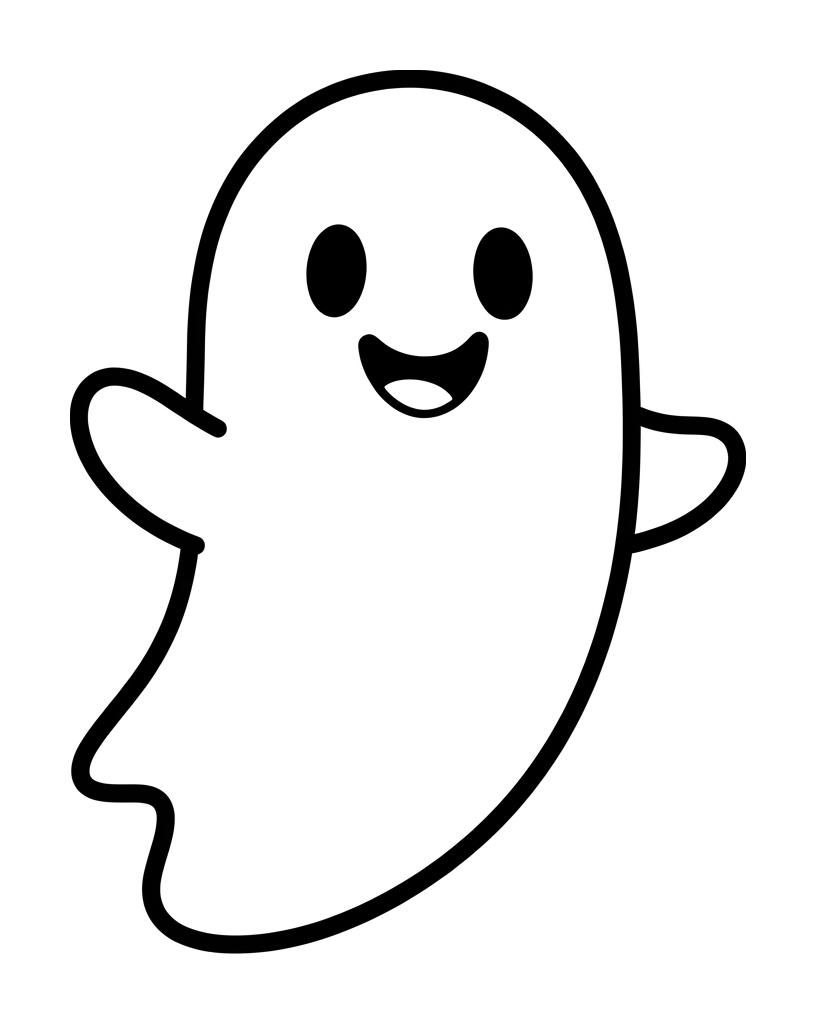
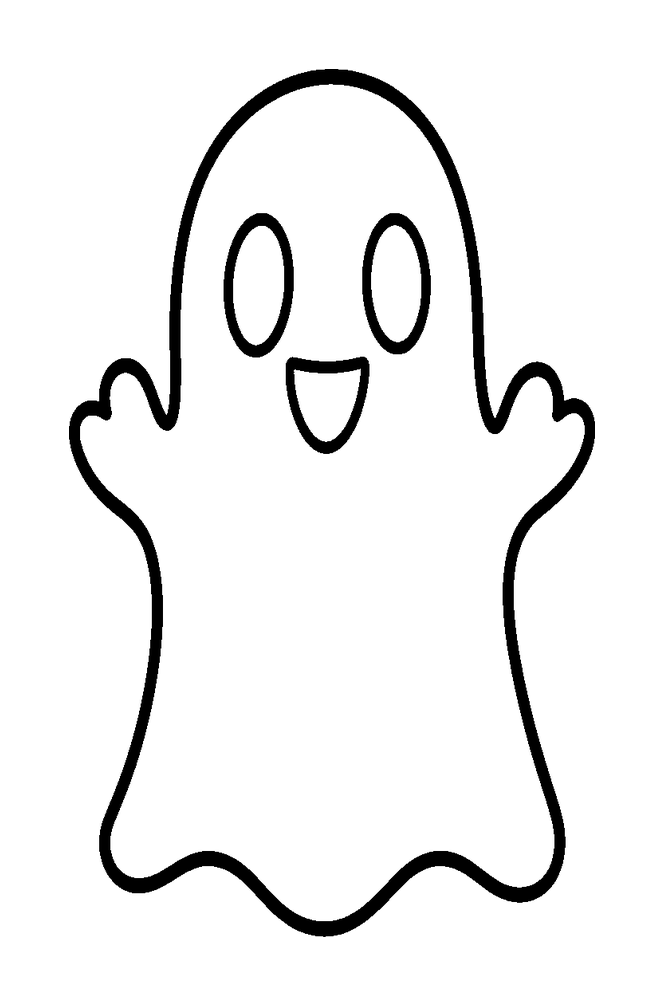
ハロウィンの台紙5種を確定し、テーマを選べるようにする
ChatGPT が描いた5枚を測って採用した。未加工の原本は
assets/templates/source/halloween/ に残してある。

測定でつまずいた点

届いた線画は かぼちゃ 1.17・ゆうれい 1.18 で、比がほぼ同じだった。
どちらも中身の詰まった塊なので重なりが 0.72 まで上がり、見分けの差が
+0.17 しか残らなかった（基準 0.20）。

原因は私の指示書で、比の絶対値（かぼちゃ 1.10〜1.15、ゆうれい 1.3）だけを
書いて「互いに離す」という関係の条件を書いていなかった。照合が見ているのは
台紙どうしの関係なので、1枚で読める条件では足りない（R-073）。

絵を描き直さず、ゆうれいを縦 1.4 倍に伸ばして +0.20 へ戻した
（tools/stretch-template.py。クラゲも同じ手で伸ばしてある）。
フランケンを横 1.4 倍にすると +0.24 まで上がったが、頭と胴が潰れて見えた。
差 0.04 のために絵を歪めるのは割に合わないので採らなかった。

実装
- 5種を templates.generated.ts に取り込み、テーマを ready: true にした
- 絵が1枚も出ていないとき、待機画面にいまのテーマを大きく出す。
  テーマ違いのままスキャンを続けると、あとで切り替えても絵が出てこないため。
  押すものは増やしていない

待機画面でひとつ実機で見つけて直した。条件に pieces.length > 0 を入れていて、
会期を片付けた翌朝の0枚の状態では出なかった。いちばん必要な場面で出ない条件
だったので、forTheme.length === 0 だけにした。

検証
- 台紙5種: 輪郭はすべて閉じている（3.9〜7.2）、総当たり最大 0.65、
  40/40 正解・2位との差 最小 +0.20、「ただの四角」は拾わない
- 実機に色を塗った15枚を通し、15/15 正しい種類・全部正しい向きを確認
- 単体テスト 499 件・typecheck・build 通過

残っている弱いところは docs/設計-ハロウィンの台紙.md に書いた。
0.55 を超える組が4つある（最大 0.65）。ゆうれい・フランケン・かぼちゃが
3つとも中身の詰まった塊だから。次に触るならフランケンの腕を長くするのが効く。

Claude-Session: https://claude.ai/code/session_01YQ81wU1rCZHBvuZPBKnxCZ

Changed region(s): [[0.0904, 0.0616, 0.9337, 0.9553], [0.3313, 0.2157, 0.6627, 0.4622], [0.0602, 0.0924, 0.3916, 0.493]]

diff --git a/src/core/templates.generated.ts b/src/core/templates.generated.ts
@@ -33,14 +33,14 @@ export const TEMPLATE_BITS = {
   stegosaurus: '000000000000000000000000000000000000000000000000000000000000000000000000000000000000000000000000000000000000000000000000000000000000000000000000000000000000000000000000000000000000000000000000000000000000000000000000000000000000000000000000000000000000000000000000000000000000000000000000000000000000000000000000000000000000000000000000000000000000000000000000000000000000000000000000000000000000000000000000110000000000000000000000000000000000000000000001110000000000000000000000000000000000000100000111111000000000000000000000000000000000001111000111111000000000000000000000000000000000001111101111111001111000000000000000000000000000001111101111111011111000000000000000000000000000011111111111111111111000000000000000000000000000011111111111111111111000000000000000000000000111111111111111111111111000000000000000000000000111111111111111111111111111100000000000000000000111111111111111111111111111000000000000000000000111111111111111111111111111000000000000000000000011111111111111111111111111000000000000000000011111111111111111111111111110110000000000000000011111111111111111111111111111110000000000000000011111111111111111111111111111110000000000000000001111111111111111111111111111100000000000000111110111111111111111111111111111111000000000001111111111111111111111111111111111111000000000001111111111111111111111111111111111111000010100111111111111111111111111111111111111110001010100111111111111111111111111111111111111111011111101111111111111111111111111111111111111111111101110011111111111111111111111111111111111111111111110001100000111111111111111111111111111111111111111000000000111111111111111111111001111111111111000000000000111111111111111011111000000011110000000000000001111101111001111001111000000000000000000000000001111101111001111001111100000000000000000000000011111011111001111001111100000000000000000000000011111011111001111011111100000000000000000000000000000011110000000001111000000000000000000000000000000000000000000000000000000000000000000000000000000000000000000000000000000000000000000000000000000000000000000000000000000000000000000000000000000000000000000000000000000000000000000000000000000000000000000000000000000000000000000000000000000000000000000000000000000000000000000000000000000000000000000000000000000000000000000000000000000000000000000000000000000000000000000',
   // 15_triceratops.png（長辺:短辺 = 1.42 : 1）
   triceratops: '000000000000000000000000000000000000000000000000000000000000000000000000000000000000000000000000000000000000000000000000000000000000000000000000000000000000000000000000000000000000000000000000000000000000000000000000000000000000000000000000000000000000000000000000000000000000000000000000000000000000000000000000000000000000000000000000000000000000000001100000000000000000000000000000000000000000000111111100000000000000000000000000000000000000011111111100000000000000000000000000000000000000011111111110000000000000000000000000000000011000011111111111000000000000000000000000000000011100011111111111000000000000000000000000011000011110011111111111000000000000000000000000001110001110111111111111100000000000000000000000001111001111111111111111111111111100000000000000000111110111111111111111111111111111000000000000000011111111111111111111111111111111110000000000000011111111111111111111111111111111111000000000000001111111111111111111111111111111111100000000000000111111111111111111111111111111111110000000110001111111111111111111111111111111111111000000111001111111111111111111111111111111111111000000111111111111111111111111111111111111111111100000011111111111111111111111111111111111111111100000011111111111111111111111111111111111111111110000011111111111111111111111111111111111111111110000011111111111111111111111111111111111111111111000011111111111111111111111111111111111111111111100011111111111111111111111111111111111111111111110001100111111111111111111111111111111111111111111000001111111011111111111111111111111111111111111000001111000001111111111111111111111111111111110000000000000001111111111111111111111111111110000000000000000011111100111111111111111111110000000000000000000011111100111111001111101111111000000000000000000111111001111111001111100111111000000000000000000111111001111111011111100111111000000000000000001111111011111111011111101111111000000000000000000111110011111110000000001111111000000000000000000000000001111100000000000000000000000000000000000000000000000000000000000000000000000000000000000000000000000000000000000000000000000000000000000000000000000000000000000000000000000000000000000000000000000000000000000000000000000000000000000000000000000000000000000000000000000000000000000000000000000000000000000000000000000000000000000000000000000000000000000000000000000',
-  // 01_kabocha.png（長辺:短辺 = 1.17 : 1）
-  kabocha: '000000000000000000000000000000000000000000000000000000000000000000000000000000000000000000000000000000000000000000000000000000000000000000000000000000000000000000000000000010000000000000000000000000000000000000000000000111000000000000000000000000000000000000000000001111000000000000000000000000000000000000000000001111000000000000000000000000000000000000000000001111000000000000000000000000000000000000000000011110000000000000000000000000000000000000000000011110000000000000000000000000000000000000000000111110000000000000000000000000000000000000000000111100000000000000000000000000000000000000000000111100000000000000000000000000000000000000000001111000000000000000000000000000000000000000011111111110000000000000000000000000000000001111111111111111111100000000000000000000000001111111111111111111111111100000000000000000000111111111111111111111111111111000000000000000011111111111111111111111111111111110000000000000111111111111111111111111111111111111000000000001111111111111111111111111111111111111100000000011111111111111111111111111111111111111110000000111111111111111111111111111111111111111111000001111111111111111111111111111111111111111111100011111111111111111111111111111111111111111111110011111111111111111111111111111111111111111111110111111111111111111111111111111111111111111111111111111111111111111111111111111111111111111111111111111111111111111111111111111111111111111111111111111111111111111111111111111111111111111111111111111111111111111111111111111111111111111111111111111111111111111111111111111111111111111111111011111111111111111111111111111111111111111111110011111111111111111111111111111111111111111111110011111111111111111111111111111111111111111111110001111111111111111111111111111111111111111111100000111111111111111111111111111111111111111111000000011111111111111111111111111111111111111110000000001111111111111111111111111111111111111100000000000111111111111111111111111111111111111000000000000001111111111111111111111111111111100000000000000000011111111111111111111111111110000000000000000000000111111111111111111111111000000000000000000000000000111111111111111111000000000000000000000000000000000000001100000000000000000000000000000000000000000000000000000000000000000000000000000000000000000000000000000000000000000000000000000000000000000000000000000000000000000000000',
-  // 02_koumori.png（長辺:短辺 = 2.44 : 1）
-  koumori: '000000000000000000000000000000000000000000000000000000000000000000000000000000000000000000000000000000000000000000000000000000000000000000000000000000000000000000000000000000000000000000000000000000000000000000000000000000000000000000000000000000000000000000000000000000000000000000000000000000000000000000000000000000000000000000000000000000000000000000000000000000000000000000000000000000000000000000000000000000000000000000000000000000000000000000000000000000000000000000000000000000000000000000000000000000000000000000000000000000000000000000000000000000000000000000000000000000000000000000000000000000000000000000000000000000000000000000000000000000000000000000000000000000000000000000011000000110000000000000000000000000000000000000011000000110000000000000000000000000000000000000011100001110000000000000000000000000001111110000111111111111000011111100000000000000111111110000111111111111000011111111000000000011111111111000111111111111000111111111110000000111111111111000011111111110000111111111111000001111111111111100011111111110001111111111111100011111111111111110011111111110011111111111111110111111111111111111011111111110111111111111111111111111111111111111111111111111111111111111111111000011111111111111111111111111111111111111110000000001111111111111111111111111111111111111100000000000111111111111111111111111111111111111000000000000111011111111111111111111111111110111000000000000000001111111111111111111111111000000000000000000000000111000011111111110000111000000000000000000000000010000001111111100000010000000000000000000000000000000000111111000000000000000000000000000000000000000000011110000000000000000000000000000000000000000000000000000000000000000000000000000000000000000000000000000000000000000000000000000000000000000000000000000000000000000000000000000000000000000000000000000000000000000000000000000000000000000000000000000000000000000000000000000000000000000000000000000000000000000000000000000000000000000000000000000000000000000000000000000000000000000000000000000000000000000000000000000000000000000000000000000000000000000000000000000000000000000000000000000000000000000000000000000000000000000000000000000000000000000000000000000000000000000000000000000000000000000000000000000000000000000000000000000000000000000000000000000000000000000000000000000000000000000000000',
-  // 03_yurei.png（長辺:短辺 = 1.31 : 1）
-  yurei: '000000000000000000000111111000000000000000000000000000000000000000111111111111000000000000000000000000000000000001111111111111100000000000000000000000000000000011111111111111110000000000000000000000000000000111111111111111111000000000000000000000000000001111111111111111111100000000000000000000000000001111111111111111111100000000000000000000000000011111111111111111111110000000000000000000000000011111111111111111111110000000000000000000000000011111111111111111111111000000000000000000000000111111111111111111111111000000000000000000000000111111111111111111111111000000000000000000000000111111111111111111111111000000000000000000000000111111111111111111111111000000000000000000000000111111111111111111111111000000000000000000000000111111111111111111111111100000000000000000011100111111111111111111111111100000000000000000111110111111111111111111111111100000000000000000111111111111111111111111111111100000000000000000111111111111111111111111111111111111000000000000111111111111111111111111111111111111000000000000111111111111111111111111111111111111000000000000011111111111111111111111111111111111000000000000001111111111111111111111111111111110000000000000000111111111111111111111111111111100000000000000000001111111111111111111111111111000000000000000000000111111111111111111111111000000000000000000000001111111111111111111111111000000000000000000000001111111111111111111111111000000000000000000000001111111111111111111111110000000000000000000000011111111111111111111111110000000000000000000000011111111111111111111111110000000000000000000000111111111111111111111111110000000000000000000000111111111111111111111111100000000000000000000001111111111111111111111111100000000000000000000011111111111111111111111111000000000000000000000111111111111111111111111111000000000000000000000111111111111111111111111110000000000000000000000111111111111111111111111100000000000000000000000011111111111111111111111100000000000000000000000000011111111111111111111000000000000000000000000000011111111111111111110000000000000000000000000000011111111111111111100000000000000000000000000000011111111111111110000000000000000000000000000000011111111111111100000000000000000000000000000000011111111111110000000000000000000000000000000000011111111111000000000000000000000000000000000000000111111000000000000000000000000000000',
-  // 04_majo.png（長辺:短辺 = 1.13 : 1）
-  majo: '000000000000000000000000000000000000000000000000000000000000000000000000000000000000000000000000000000000000000000000000000000000000000000000000000000000000011111111110000000000000000000000000000000000000000111111111000000000000000000000000000000000000000001111111100000000000000000000000000000000000000000011111110000000000000000000000000000000000000000011111111000000000000000000000000000000000000000011111111100000000000000000000000000000000000000011111111111111110000000110000000000000000000000011111111111111100000001111000000000000000000000011111111111100000000011111100000000000000000001111111111110000000000111111110000000000000000111111111111111000000000111111110000000000000011111111111111111000000001111111111000000000000011100111111111111000000011111111111000000000000000001111111111110000000011111111110000000000000011111111111111110000000011111111000000000000000001111111111111100000001111111110000000000000000001111111111100000000011111111000000000000000000000011111111110000000011110000000000000000000000001111111111111000000111110000000000000000000000111111111111111111111100100000000000000000000011111111111111111111111000000000000000000000111111111111111111111111111000000000000000001111111111111111111111111111110000000000000000011111111111111111111111111110000000000000000000000011111111111111111111111110000000000000000000000001111111111111111111111111000000100000000000000001111111111101111111111111101000110000000000000001111111111000111111111111111101110000000000000001111111110000011111111001111111100000000000000000000111100000111011100000111111100000000000000000000011000001110010000000001110000000000000000000000010000111000000000000000010000000000000000000000000001110000000000000000000000000000000000000000000011100000000000000000000000000000000000000000001110000000000000000000000000000000000000000000011100000000000000000000000000000000000000000000111000000000000000000000000000000000000000000011110000000000000000000000000000000000000000000111000000000000000000000000000000000000000000001110000000000000000000000000000000000000000000111100000000000000000000000000000000000000000000110000000000000000000000000000000000000000000000000000000000000000000000000000000000000000000000000000000000000000000000000000000000000000000000000000000000000000000000000000000000000000000',
+  // 01_kabocha.png（長辺:短辺 = 1.18 : 1）
+  kabocha: '000000000000000000000000000000000000000000000000000000000000000000000000000000000000000000000000000000000000000000000000000000000000000000000000000000000000000000000000000000000000000000000000000000000000000000000000000011111110000000000000000000000000000000000000001111111111000000000000000000000000000000000000011111111111000000000000000000000000000000000000111111111111000000000000000000000000000000000001111111111110000000000000000000000000000000000011111111000000000000000000000000000000000000000011111110000000000000000000000000000000000000000111111110000000000000000000000000000000000000001111111110000000000000000000000000000000000000011111111110000000000000000000000000000000011111111111111111111111000000000000000000000111111111111111111111111111111100000000000000111111111111111111111111111111111111000000000001111111111111111111111111111111111111100000000011111111111111111111111111111111111111110000000111111111111111111111111111111111111111111000000111111111111111111111111111111111111111111000001111111111111111111111111111111111111111111100011111111111111111111111111111111111111111111110011111111111111111111111111111111111111111111110011111111111111111111111111111111111111111111110111111111111111111111111111111111111111111111111111111111111111111111111111111111111111111111111111111111111111111111111111111111111111111111111111111111111111111111111111111111111111111111111111111111111111111111111111111111111111111111111111111111111111111111111111111111111111111111111111111111111111111111111111111111111111111111111111111111111111111111111111111111111111111111111111111111111111111111111111111111111111111111111011111111111111111111111111111111111111111111110011111111111111111111111111111111111111111111110011111111111111111111111111111111111111111111110001111111111111111111111111111111111111111111100001111111111111111111111111111111111111111111100000111111111111111111111111111111111111111111000000011111111111111111111111111111111111111110000000001111111111111111111111111111111111111100000000000001111111111111111111111111111111100000000000000000000111111011111111110111110000000000000000000000000000000000000000000000000000000000000000000000000000000000000000000000000000000000000000000000000000000000000000000000000000000000000000000000000000000000000000000000000000000000000',
+  // 02_koumori.png（長辺:短辺 = 2.36 : 1）
+  koumori: '000000000000000000000000000000000000000000000000000000000000000000000000000000000000000000000000000000000000000000000000000000000000000000000000000000000000000000000000000000000000000000000000000000000000000000000000000000000000000000000000000000000000000000000000000000000000000000000000000000000000000000000000000000000000000000000000000000000000000000000000000000000000000000000000000000000000000000000000000000000000000000000000000000000000000000000000000000000000000000000000000000000000000000000000000000000000000000000000000000000000000000000000000000000000000000000000000000000000000000000000000000000000000000000000000000000000000000000000000000000000000000000000000000000000000011000000000000110000000000000000000000000000000011100000000001110000000000000000000000000000000011110000000011110000000000000000000000000000000011111111111111110000000000000000000000000000000011111111111111110000000000000000000000001111100011111111111111110001111100000000000001111111100011111111111111110001111111100000000011111111110001111111111111100011111111110000000111111111111001111111111111100111111111111000001111111111111111111111111111111111111111111100011111111111111111111111111111111111111111111110111111111111111111111111111111111111111111111111100011111111111111111111111111111111111111110001000001111111111111111111111111111111111111100000000000110001111111111111111111111111100011000000000000100000110000111111111111000011000001000000000000000000100000011111111110000001000000000000000000000000000000001111111100000000000000000000000000000000000000001111111100000000000000000000000000000000000000001110011100000000000000000000000000000000000000000000000000000000000000000000000000000000000000000000000000000000000000000000000000000000000000000000000000000000000000000000000000000000000000000000000000000000000000000000000000000000000000000000000000000000000000000000000000000000000000000000000000000000000000000000000000000000000000000000000000000000000000000000000000000000000000000000000000000000000000000000000000000000000000000000000000000000000000000000000000000000000000000000000000000000000000000000000000000000000000000000000000000000000000000000000000000000000000000000000000000000000000000000000000000000000000000000000000000000000000000000000000000000000000000000000000000000000000000000',
+  // 03_yurei.png（長辺:短辺 = 1.65 : 1）
+  yurei: '000000000000000000000111110000000000000000000000000000000000000000001111111100000000000000000000000000000000000000011111111110000000000000000000000000000000000000111111111111000000000000000000000000000000000001111111111111000000000000000000000000000000000001111111111111100000000000000000000000000000000011111111111111100000000000000000000000000000000011111111111111110000000000000000000000000000000011111111111111110000000000000000000000000000000111111111111111110000000000000000000000000000000111111111111111110000000000000000000000000000000111111111111111110000000000000000000000000000000111111111111111110000000000000000000000000000000111111111111111110000000000000000000000000000000111111111111111110000000000000000000000000000000111111111111111110000000000000000000000000000110111111111111111110001000000000000000000000001110111111111111111111011100000000000000000000011111111111111111111111111110000000000000000000111111111111111111111111111111000000000000000000111111111111111111111111111111000000000000000000011111111111111111111111111110000000000000000000011111111111111111111111111110000000000000000000001111111111111111111111111100000000000000000000000111111111111111111111111000000000000000000000000011111111111111111111110000000000000000000000000001111111111111111111100000000000000000000000000001111111111111111111100000000000000000000000000001111111111111111111100000000000000000000000000001111111111111111111100000000000000000000000000001111111111111111111100000000000000000000000000001111111111111111111100000000000000000000000000001111111111111111111100000000000000000000000000001111111111111111111110000000000000000000000000001111111111111111111110000000000000000000000000011111111111111111111110000000000000000000000000011111111111111111111110000000000000000000000000011111111111111111111111000000000000000000000000111111111111111111111111000000000000000000000000111111111111111111111111000000000000000000000000111111111111111111111111100000000000000000000001111111111111111111111111100000000000000000000001111111111111111111111111100000000000000000000001111111111111111111111111100000000000000000000000111100111111111110011111100000000000000000000000010000001111111100000111000000000000000000000000000000000111111000000000000000000000000000000000000000000011100000000000000000000000',
+  // 04_majo.png（長辺:短辺 = 1.1 : 1）
+  majo: '000000000000000000000000000000000000000000000000000000000000000000000000000000000000000000000000000000000000000000011100000000000000000000000000000000000000000000111111100000000000000000000000000000000000000011111111111000000000000000000000000000000000000111111111111100000000000000000000000000000000000111111111111110000001100000000000000000000000111111001111111111111111111000000000000000000001111100001111111111111111111000000000000000000000000000000111111111111111111000000000000000000000000000000111111111111111110000000000000000000000000000000111111111111111100000000000000000000000000000000111111111111111000000000000000000000000000000001111111111111110000000000000000000000000011110011111111111111100000000000000000000000000011111111111111111111100000000000000000000000000111111111111111111111100000000000000000000000101111111111111111111111100000000000000000000001111111111111111111111111000000000000000000000000111111111111111111111111000000000000000000000000111111111111111111111100000000000000000000000000111111111111111111111100000000000000111000000000000111111111111111111100000000000011111000000000000001111111111111111110000000001111100000000000111111011111111111111111110000011110000000000011111111111111111111111111111111111000000000000111111111111111111111111111111111100000000000000000111111111111111111111111111111000000000000000000011111111111111111111111111100000000000000000000001100111111111111111111111000000000000000000000000000011111111111111111000000000000000000000000000000111111111111111111000000000000000000000000000000111111111111111111000000000000000000000000000000001111111111111110000000000000000000011111100011011111100011111110000000000000000011111111111111111110001111111100000000000000000001111111111111110000001111110000000000000000000111111111111111100000111111110000000000000000000111111111111111000000111111100000000000000000000011111111111100000000011111100000000000000000000111111111111100000000001111111000000000000000000111111111111000000000001111111000000000000000000011111111111000000000000000110000000000000000000001111111110000000000000000000000000000000000000000111111100000000000000000000000000000000000000000101100000000000000000000000000000000000000000000000000000000000000000000000000000000000000000000000000000000000000000000000000000000000000000',
   // 05_franken.png（長辺:短辺 = 1.03 : 1）
-  franken: '000000000000000000000000000000000000000000000000000000000000000011111111111111110000000000000000000000000000000011111111111111110000000000000000000000000000000011111111111111110000000000000000000000000000000011111111111111110000000000000000000000000000000011111111111111110000000000000000000000000000000011111111111111110000000000000000000000000000000011111111111111110000000000000000000000000000000011111111111111110000000000000000000000000000000111111111111111111000000000000000000000000000000111111111111111111000000000000000000000000000000111111111111111111000000000000000000000000000000001111111111111100000000000000000000000000000000111111111111111111000000000000000000000000000000111111111111111111000000000000000000000000000000101111111111111101000000000000000001110000000011111111111111111111110000000011100111111111111111111111111111111111111111111111111111111111111111111111111111111111111111111111111111111111111111111111111111111111111111111111111111111111111111111111111111111111111111111111111000000000111111111111111111111111111111000000000000000000000000001111111111111100000000000000000000000000000000001111111111111100000000000000000000000000000000001111111111111100000000000000000000000000000000001111111111111100000000000000000000000000000000001111111111111100000000000000000000000000000000011111111111111110000000000000000000000000000000011111111111111110000000000000000000000000000000011111111111111110000000000000000000000000000000011111111111111110000000000000000000000000000000011111111111111110000000000000000000000000000000001111111111111100000000000000000000000000000000001111111111111100000000000000000000000000000000011111110011111100000000000000000000000000000000011111110011111110000000000000000000000000000000011111100001111110000000000000000000000000000000011111100001111110000000000000000000000000000000011111100001111110000000000000000000000000000000011111100001111110000000000000000000000000000000011111100001111110000000000000000000000000000000111111100001111111000000000000000000000000000000111111100001111111000000000000000000000000000011111111000001111111110000000000000000000000000111111111000000111111111000000000000000000000000111111111000000111111111000000000000000000000000111111111000000111111111000000000000000000000000000000000000000000000000000000000000',
+  franken: '000000000000000000000000000000000000000000000000000000000000000111111111111111111000000000000000000000000000000111111111111111111100000000000000000000000000000111111111111111111000000000000000000000000000000111111111111111111000000000000000000000000000000111111111111111111000000000000000000000000000000111111111111111111000000000000000000000000000000111111111111111111000000000000000000000000000000111111111111111110000000000000000000000000000000011111111111111110000000000000000000000000000001111111111111111111100000000000000000000000000001111111111111111111110000000000000000000000000011111111111111111111110000000000000000000000000001111111111111111111100000000000000000000000000001111111111111111111100000000000000000000000000000001111111111111100000000000000000000000000000000111111111111111111000000000000000000000000000000111111111111111111000000000000000000100000000000110001111111100011000000000001000000110011111111111111111111111111111111110011000111111111111111111111111111111111111111111111111111111111111111111111111111111111111111111111111111111111111111111111111111111111111111111111111111111111111111111111111111111111111111111111111001110011111111111111111111111111111111110011100000000000000000001111111111111100000000000000000000000000000000011111111111111110000000000000000000000000000000011111111111111110000000000000000000000000000000011111111111111110000000000000000000000000000000111111111111111111000000000000000000000000000000111111111111111111000000000000000000000000000000111111111111111111100000000000000000000000000000111111111111111111000000000000000000000000000000011111111111111110000000000000000000000000000000111111111111111111000000000000000000000000000000111111110011111111000000000000000000000000000001111111110001111111100000000000000000000000000001111111100001111111100000000000000000000000000011111111000000111111110000000000000000000000000011111111000000111111111000000000000000000000000011111110000000011111110000000000000000000000000111111110000000011111111000000000000000000001111111111100000000001111111111100000000000000001111111111100000000000111111111100000000000000001111111111100000000001111111111100000000000000011111111111100000000001111111111110000000000000011111111111100000000001111111111110000000000000000000000000000000000000000000000000000000',
 } as const

diff --git a/src/renderer/App.tsx b/src/renderer/App.tsx
@@ -273,16 +273,43 @@ export function App(): React.JSX.Element {
         dinosaurStyle={settings?.dinosaurStyle ?? 'plain'}
       />
 
-      {settings && settings.watchFolder !== null && forTheme.length === 0 && pieces.length > 0 && (
+      {/*
+        * **絵が1枚も出ていないときは、いまのテーマを大きく出す。**
+        *
+        * テーマが合っていないと、絵は**無言で**別テーマとして記録される。
+        * 気づかずにスキャンを続けると、あとで切り替えても絵が出てこない。
+        *
+        * **`pieces.length > 0` を条件に入れてはいけない。**
+        * 会期を片付けた翌朝は 0 枚から始まるので、
+        * **いちばん必要な場面（その日の1枚目を通す前）で出なくなる**。
+        * 押すものは増やさない。気づければそれでいい。
+        */}
+      {settings && settings.watchFolder !== null && forTheme.length === 0 && (
         <div className="setup">
-          <h1>このテーマの絵はまだありません</h1>
-          <p>
-            ほかのテーマに {pieces.length} 枚あります。絵はテーマごとに分かれているので、
-            <br />
-            このテーマの絵は、このテーマを選んだ状態で写真を入れると増えます。
-            <br />
-            テーマは <strong>S</strong> キーの設定画面で切り替えられます。
+          <p className="theme-now">
+            いまは <strong>{THEMES.find((theme) => theme.id === settings.theme)?.name}</strong> です
           </p>
+          {pieces.length > 0 ? (
+            <>
+              <h1>このテーマの絵はまだありません</h1>
+              <p>
+                ほかのテーマに {pieces.length} 枚あります。絵はテーマごとに分かれているので、
+                <br />
+                このテーマの絵は、このテーマを選んだ状態で写真を入れると増えます。
+                <br />
+                テーマは <strong>S</strong> キーの設定画面で切り替えられます。
+              </p>
+            </>
+          ) : (
+            <>
+              <h1>写真を入れると、ここに出ます</h1>
+              <p>
+                取り込みフォルダに写真が入るのを待っています。アプリの操作は要りません。
+                <br />
+                テーマが違うときは <strong>S</strong> キーの設定画面で切り替えてください。
+              </p>
+            </>
+          )}
         </div>
       )}
 

diff --git a/src/core/theme.ts b/src/core/theme.ts
@@ -28,12 +28,10 @@ export const THEMES: readonly ThemeMeta[] = [
   { id: 'aquarium', name: '水族館', motion: 'float', ready: true },
   { id: 'dinosaur', name: '恐竜', motion: 'walk', ready: true },
   /*
-   * **まだ台紙が無いので `ready: false`。** 設定画面には出さない。
-   * 世界（背景）だけ先に作ってある。台紙5種が確定したら true にする。
-   * ここを先に true にすると、会場で選べてしまい、
-   * 種類の付かない絵ばかりが漂う画面になる。
+   * 台紙5種が確定し、実機で 15/15 正しく判定・正しい向きで出ることを
+   * 確認したので選べるようにした（2026-10-09）。
    */
-  { id: 'halloween', name: 'ハロウィン', motion: 'float', ready: false },
+  { id: 'halloween', name: 'ハロウィン', motion: 'float', ready: true },
   { id: 'space', name: '宇宙', motion: 'float', ready: false },
   { id: 'meadow', name: '森・草原', motion: 'flutter', ready: false },
   { id: 'night', name: '夜空', motion: 'rise', ready: false },

diff --git a/src/renderer/styles.css b/src/renderer/styles.css
@@ -40,6 +40,20 @@ body,
   background: rgba(3, 26, 41, 0.85);
 }
 
+/* いまのテーマ。見出しより先に目に入る大きさにする */
+.theme-now {
+  margin: 0;
+  font-size: 1.15rem;
+  letter-spacing: 0.08em;
+  color: rgba(255, 255, 255, 0.72);
+}
+
+.theme-now strong {
+  font-size: 1.9rem;
+  color: #ffffff;
+  letter-spacing: 0.04em;
+}
+
 .setup h1 {
   font-size: 1.5rem;
   margin: 0;

diff --git a/tools/stretch-template.py b/tools/stretch-template.py
@@ -1,0 +1,52 @@
+#!/usr/bin/env python3
+"""台紙を縦（または横）に引き伸ばす。**形を離すためだけに使う。**
+
+**なぜ要るのか** — 照合は外形の重なりしか見ず、回転も反転も全部試すので、
+見分けの材料は「**長辺と短辺の比**」と「出っぱり」しかない。
+比の近い台紙が2枚あると、絵の出来に関係なく見分けが落ちる。
+
+比は**描き直さなくても変えられる**。クラゲも同じ理由で縦に伸ばしてある。
+絵の印象は意外と変わらない（おばけは縦に伸ばすほどおばけらしくなる）。
+
+**伸ばしたものが印刷する台紙になる。** 照合に使う形と、子どもが塗る紙が
+違っていては意味がないので、元の絵のほうを刷ってはいけない。
+元は `assets/templates/source/` に残す。
+
+使い方:
+    python3 tools/stretch-template.py <入力.png> <出力.png> --y 1.4
+    python3 tools/stretch-template.py <入力.png> <出力.png> --x 1.3
+"""
+import argparse
+from pathlib import Path
+
+from PIL import Image
+
+# これより明るければ白。伸ばすと線がぼけるので、二値に戻す境目
+INK = 150
+
+
+def main() -> None:
+    ap = argparse.ArgumentParser()
+    ap.add_argument('source', type=Path)
+    ap.add_argument('output', type=Path)
+    ap.add_argument('--x', type=float, default=1.0)
+    ap.add_argument('--y', type=float, default=1.0)
+    a = ap.parse_args()
+
+    image = Image.open(a.source).convert('L')
+    w, h = image.size
+    # 伸ばしてから二値に戻す。灰色の縁が残ると「線が薄い」と判定される
+    tall = image.resize((round(w * a.x), round(h * a.y)), Image.LANCZOS)
+    tall = tall.point(lambda v: 0 if v < INK else 255)
+
+    # 紙は正方形のまま。伸びたぶんだけ余白が減る
+    side = max(w, h, tall.width, tall.height)
+    sheet = Image.new('L', (side, side), 255)
+    sheet.paste(tall, ((side - tall.width) // 2, (side - tall.height) // 2))
+    a.output.parent.mkdir(parents=True, exist_ok=True)
+    sheet.save(a.output)
+    print(f'{a.source.name} {w}x{h} → {a.output.name} {side}x{side}（縦 {a.y} 倍・横 {a.x} 倍）')
+
+
+if __name__ == '__main__':
+    main()

diff --git a/docs/開発規則.md b/docs/開発規則.md
@@ -37,6 +37,33 @@
 
 ## 規則
 
+- **R-073 形の条件は「いくつにする」ではなく「どれとどれを離す」で書く**:
+
+  **何が起きたか** — ハロウィンの台紙をビジュアル担当（ChatGPT）に発注するとき、
+  指示書に**比の絶対値**を書いた（かぼちゃ 1.10〜1.15、ゆうれい 1.3）。
+  返ってきたのは **かぼちゃ 1.17・ゆうれい 1.18**。
+  どちらも指示の近くにあるのに、**互いの比がほぼ同じ**になった。
+  どちらも中身の詰まった塊なので重なりが **0.72** まで上がり、
+  見分けの差は **+0.17**（基準 0.20）しか残らなかった。
+
+  **なぜそうなったか** — 照合が見ているのは**台紙どうしの関係**であって、
+  1枚ずつの絶対値ではない。「1.10〜1.15」は**1枚で読める条件**なので、
+  描く側はそれを満たせば終わりだと受け取る。**関係の条件はどこにも書いていなかった。**
+
+  **今後どうするか**
+
+  - 指示書には**必ず「◯◯と△△の比を離す」**を書く。
+    絶対値は目安として添えるだけにする。
+  - **比は描き直さなくても変えられる**（`tools/stretch-template.py`）。
+    今回はゆうれいを縦に 1.4 倍にして +0.20 へ戻した。クラゲも同じ手である。
+    **絵の作り直しを頼む前に、引き伸ばしで済まないかを測る。**
+  - ただし**歪んで見えたら採らない**。フランケンを横に 1.4 倍にすると
+    +0.24 まで上がったが、頭と胴が潰れた。差 0.04 のために絵を歪めない。
+  - **3つ以上が「中身の詰まった塊」になる組み合わせを避ける。**
+    今回はゆうれい・フランケン・かぼちゃが揃ってしまい、
+    どれを動かしても別のどれかに近づく板挟みになった。
+    種類を決める段階で、**塊は2つまで**にしておくこと。
+
 - **R-072 取り違えの代償は種類ごとに違う。「動き方そのものが変わる」種類を、同じ基準で通してはいけない**:
 
   **何が起きたか** — R-071（下）を入れた翌日のイベント本番で、会場から
@@ -1954,6 +1981,7 @@
 
 | MM-DD | 事象 | 原因 | 対処/規則ID |
 |---|---|---|---|
+| 10-09 | **ChatGPT が描いたハロウィン台紙5枚を測り、1枚を引き伸ばして採用。実装まで通した** | 届いた線画は**かぼちゃ 1.17・ゆうれい 1.18 で比がほぼ同じ**になり、重なり 0.72・見分けの差 +0.17 で基準（0.20）に届かなかった。私の指示書が**比の絶対値だけ**を書いて、**互いに離す条件を書いていなかった**のが原因（R-073）。絵を描き直さず、ゆうれいを縦 1.4 倍に伸ばして **+0.20** へ回復（`tools/stretch-template.py`。クラゲと同じ手）。フランケンを横 1.4 倍にすると +0.24 まで上がったが**頭と胴が潰れた**ので採らなかった。実機で色を塗った15枚を通し、**15/15 正しい種類・全部正しい向き**を確認してテーマを選べるようにした。あわせて待機画面にいまのテーマを出した（**`pieces.length > 0` を条件に入れていて、会期を片付けた翌朝の0枚のときに出なかった**のを実機で見つけて直した） | R-073 / F-519 / F-520 |
 | 10-02 | **ハロウィンを第3のテーマにすることを決め、台紙の線画を描く前に「形の当たり」を実測した** | 動きは**全部ただよう**（本人決定）。歩く絵と飛ぶ絵を混ぜないので R-072 の型を踏まない。種類はかぼちゃ・まじょ・ゆうれい・こうもり・フランケンシュタインの5種（本人決定）。**線画を描いてから似ていると分かっても描き直すしかない**ので、形だけの当たりを作って `check-templates.py` に通した。最初の案は **かぼちゃ ↔ ゆうれい 0.77**（「ほそ魚とサメ 0.78」と同じ水準）で落ちた。幽霊を縦長にして裾を深くえぐり、フランケンの腕と脚を広げて**全組 0.55 未満・見分けの差 +0.31** まで上げた。**予想では「ゆうれい↔フランケン」が危ないと思っていたが実測は違った。形の相性は見た目の印象では当たらない** | `docs/設計-ハロウィンテーマ.md` / `tools/draft-halloween-shapes.py` |
 | 09-19 | **イベント本番中に「恐竜が泳いでいる」と連絡が入り、前夜の変更を丸ごと差し戻した** | 恐竜テーマで絵が浮く経路は「プテラノドン判定」1つだけなので、翼竜でない絵が翼竜と判定されていた。実機で5種を1枚ずつ出し、**種類さえ正しければ正しく動く**（4種は地面・翼竜だけ空）ことを先に確認して原因を判定側に絞った。**手元の実データ400枚では再現できなかった**が、その400枚は**前回の1.0倍の台紙**で、本番は**0.7倍の新しい台紙**。検証材料と本番の紙が違っていた。会場を止めないことを優先し、0.1.126 と**ソースが完全に一致する**状態まで戻して 0.1.128 として配布。クラゲの件（3→16枚）は**未解決のまま持ち越し** | R-072 / F-518 取り下げ |
 | 09-18 | **クラゲが会場でほぼ全部「種類なし」だった問題を、点数の壁ではなく「1位と2位の差」で直した** | 水族館200枚でクラゲに種類が付いたのは **3枚だけ**。触手が細くて「線の内側」が取れず、残る「紙を消しただけの形」は 0.71〜0.81 で、0.85 の壁に届かなかった。**0.85 は「別の生き物と見間違えていないか」の代用品**で、それは1位と2位の点差で直接測れる（クラゲの2位はいつも fish の 0.45〜0.53）。捨てられていた80枚を点差順に並べ**実物を目で見て**境目を決めた: 間違いは点差 0.021 と 0.096、正解は 0.095 と 0.114 で**0.09 付近は分けられない**。間違いの最大 0.114 の倍近くを取って **0.20**。実アプリで400枚を通し直して1枚ずつ突き合わせ、**種類が付いた絵 +31枚（クラゲ 3→16）、失った絵0・変わった絵0**、増えた31枚は全部目視で正しいと確認、合成回帰 44/44 維持 | R-071 / F-518 |

diff --git a/docs/設計-ハロウィンの台紙.md b/docs/設計-ハロウィンの台紙.md
@@ -163,23 +163,43 @@ and two separated legs below, about as wide as it is tall
 
 ---
 
-## かぼちゃだけ、まだ仮の台紙（2026-10-02）
+## 確定した台紙（2026-10-09）
 
-**`assets/templates/halloween/01_kabocha.png` はコードで描いた仮のもの。**
-生成した丸いかぼちゃは、**「ただの四角」と 0.76 で重なった**（合格点 0.70）。
-黒い布の上で撮った紙が「写真まるごと」切り抜かれる経路が残っているので
-（R-070・実データで10枚）、それが**かぼちゃとして夜空を漂う**ことになる。
+**ChatGPT が描いた5枚を測って採用した。** 未加工の原本は
+`assets/templates/source/halloween/`、印刷・照合に使うものは
+`assets/templates/halloween/`。
 
-| かぼちゃの形 | 四角との重なり |
-|---|---|
-| 丸いかぼちゃ（生成版） | **0.76** ← 落ちる |
-| **横に平たいかぼちゃ** | **0.60** |
-| 丸いまま＋葉とつる | 0.75 ← 落ちる |
+| 台紙 | 比 | 輪郭 | 備考 |
+|---|---|---|---|
+| かぼちゃ | 1.18 | 閉じている（6.4） | 横に平たい。四角との重なり 0.68（合格） |
+| こうもり | 2.36 | 閉じている（4.8） | |
+| ゆうれい | **1.65** | 閉じている（7.2） | **縦に 1.4 倍に伸ばしてある**（下記） |
+| まじょ | 1.10 | 閉じている（3.9） | 右向き |
+| フランケン | 1.03 | 閉じている（4.0） | |
 
-**出っぱりを足しても直らない。比を変えるしかない。**
-ただし平たくしすぎると今度は**幽霊（比 1.31）に近づく**。
-実測した最適点は**比 1.10〜1.15**。上の「1. かぼちゃ」の指定を
-「横に平たく・ヘタを長く横へ曲げる」に直して描き直すこと。
+総当たり（最大 0.65）／**40/40 正解・2位との差 最小 +0.20**。
+
+### ゆうれいを縦に 1.4 倍に伸ばした理由
+
+届いた線画は**かぼちゃ 1.17・ゆうれい 1.18** で、**比がほぼ同じ**だった。
+どちらも中身の詰まった塊なので、重なりが **0.72** まで上がり、
+見分けの差が **+0.17** しか無かった（基準は 0.20）。
+
+`tools/stretch-template.py` で縦に 1.4 倍（比 1.65）にして **+0.20** に回復した。
+**絵は描き直していない。** 比は引き伸ばしで変えられるし、
+おばけは縦に伸ばすほどおばけらしく見える（クラゲも同じ理由で伸ばしてある）。
+
+フランケンを横に 1.4 倍にすると **+0.24** まで上がったが、
+**頭と胴が潰れて見えた**ので採らなかった。差を 0.04 稼ぐために
+絵を歪めるのは割に合わない。
+
+### まだ残っている弱いところ
+
+0.55 を超える組が4つある（最大 0.65）。
+**ゆうれい・フランケン・かぼちゃが3つとも「中身の詰まった塊」**だから。
+基準（40/40・差 0.20）は満たしているが、余裕は大きくない。
+次に触るなら、**フランケンの腕をもっと長く**して比を 1.4 あたりへ持っていくのが
+いちばん効く（歪ませずに形を離せる）。
 
 ## 作ったあとに必ずやること
 

diff --git a/docs/機能要項.md b/docs/機能要項.md
@@ -141,6 +141,8 @@
 | F-512 | **余白への落書きの中から、絵ひとつ分を選んで照合する**（線で仕切られた区画は繋いで数える／**純粋関数＋単体テスト**） | ✅ | `src/core/regions.ts` `largestRegion` / `processImage.ts` `identify` |
 | F-513 | **イベントごとに絵を分けて残す**（会期の絵と元のスキャン写真を日付フォルダへ移す・消さない・設定は残す／**純粋関数＋単体テスト**） | ✅ | `src/core/events.ts` `eventFolderName` / `electron/storage.ts` `archiveEvent` / `App.tsx` |
 | F-514 | **現場に持っていくマニュアルを PDF で出す**（発注を除いた5ページ・スタッフ用の貼り紙は単独ページ） | ✅ | `tools/make-manual-pdf.py` / `docs/イベント運営マニュアル-現場用.html` |
+| F-520 | **絵が1枚も出ていないとき、いまのテーマを大きく出す**（テーマ違いのままスキャンを続けるのを防ぐ・操作は増やさない） | ✅ | `src/renderer/App.tsx` `.theme-now` |
+| F-519 | **お絵かきハロウィン（第3のテーマ）**（5種・全部ただよう・夜空の世界／**純粋関数＋単体テスト**） | ✅ | `assets/templates/halloween/` / `src/core/templates.ts` / `scene/halloweenScene.ts` / `tools/stretch-template.py` |
 | F-518 | ~~**点数が届かなくても、2位を大きく引き離していれば種類を確定する**~~ **2026-09-19 に差し戻した**（本番で翼竜でない恐竜が空に浮いた。検証材料が古い台紙だった／R-072）。クラゲが「種類なし」で沈む問題は**未解決** | ⬜ | （コードからは削除済み） |
 | F-517 | **照合で2位の点数も返す**（1位との差で「別の生き物と迷っていないか」を測れるようにする／**純粋関数＋単体テスト**） | ✅ | `src/core/match.ts` `matchTemplates` `MatchResult.runnerUp` |
 | F-516 | **「写真まるごと」を絵として受け取らない**（黒い布の上で撮っても紙の写真が泳がない／**純粋関数＋単体テスト**） | ✅ | `src/core/cutout.ts` `fillsWholePhoto` / `processImage.ts` `trySealRatios` |
